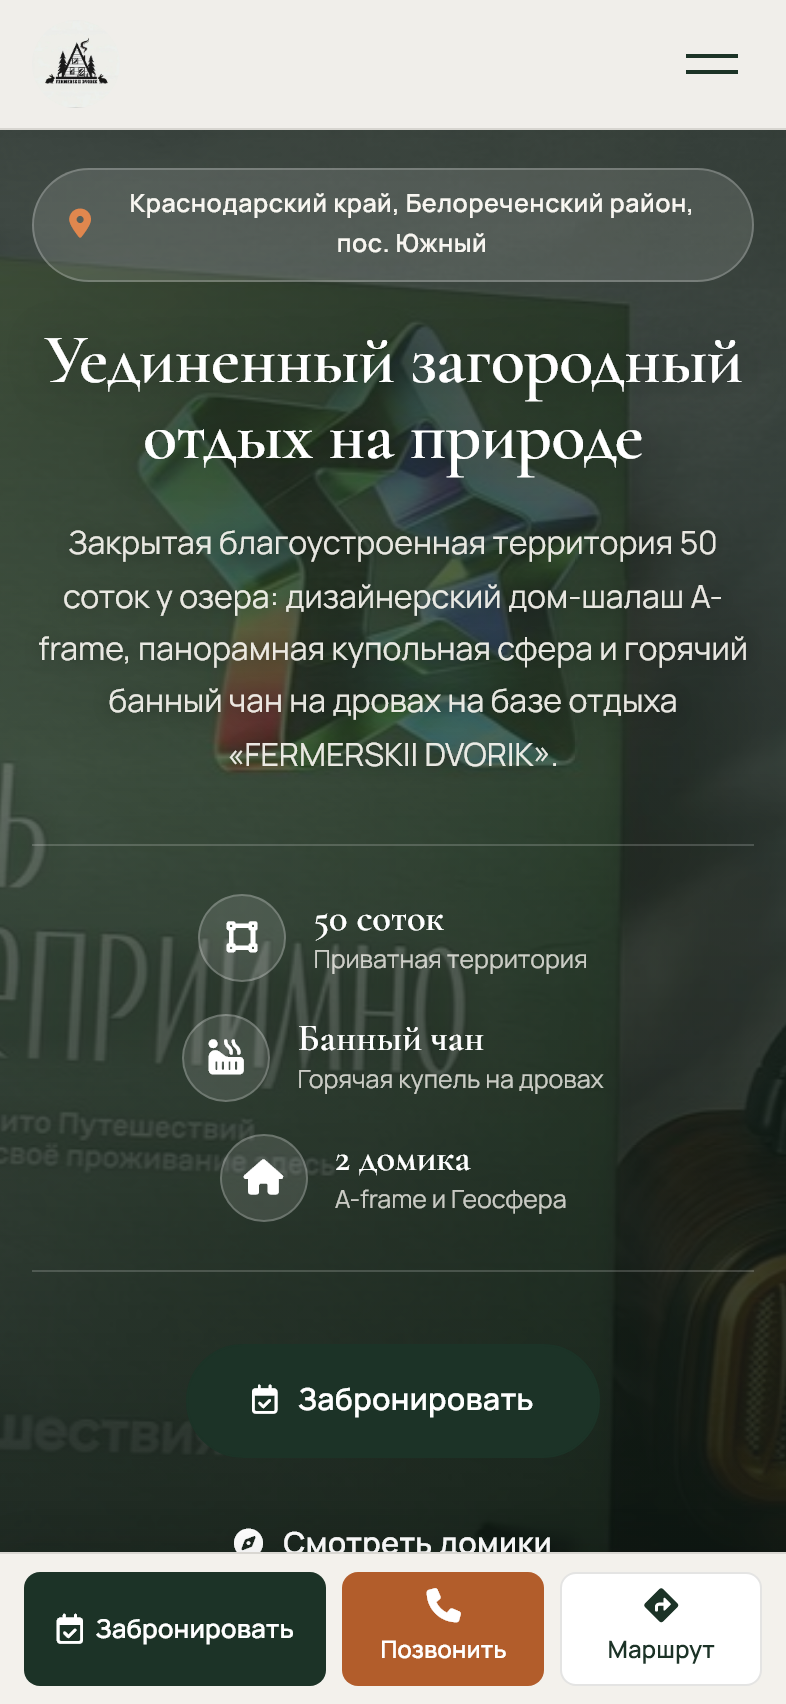
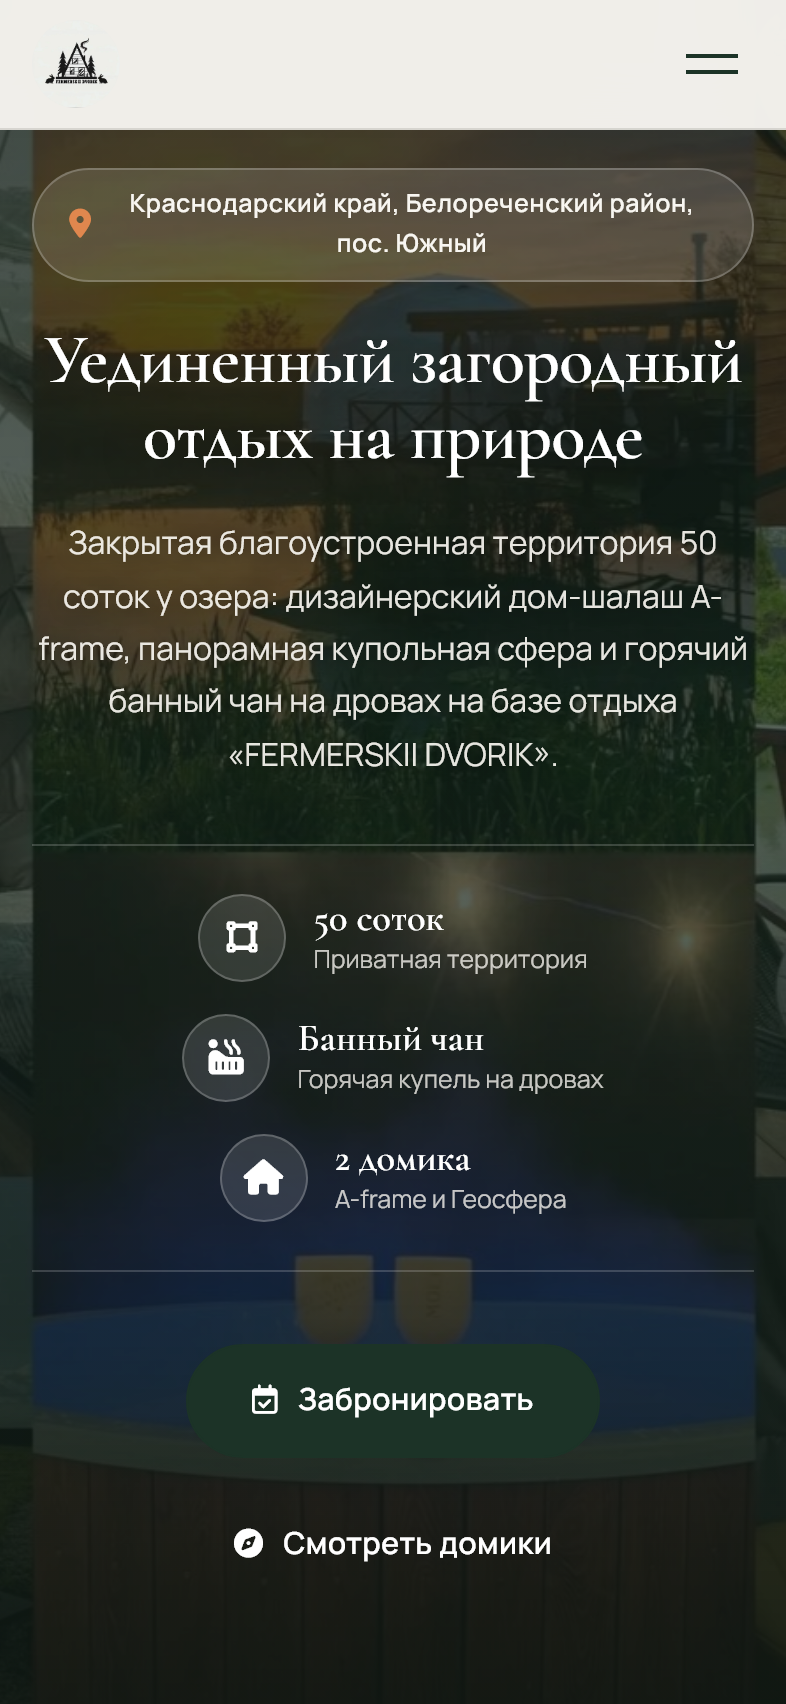
Remove mobile bottom bar and update mobile screenshots

diff --git a/css/layout.css b/css/layout.css
@@ -209,81 +209,6 @@
   line-height: 1.1;
 }
 
-.mobilnaya-polosa {
-  display: none;
-  position: fixed;
-  bottom: 0;
-  left: 0;
-  width: 100%;
-  background-color: rgba(248, 246, 241, 0.98);
-  backdrop-filter: blur(16px);
-  -webkit-backdrop-filter: blur(16px);
-  border-top: 1px solid var(--granitsa-tonkaya);
-  padding: 0.55rem 0.75rem calc(0.55rem + env(safe-area-inset-bottom));
-  z-index: 99;
-  box-shadow: 0 -4px 20px rgba(0, 0, 0, 0.08);
-}
-
-.mobilnaya-polosa__setka {
-  display: grid;
-  grid-template-columns: 1.5fr 1fr 1fr;
-  gap: 0.5rem;
-  max-width: 500px;
-  margin: 0 auto;
-}
-
-.mobilnaya-polosa__knopka {
-  display: flex;
-  flex-direction: column;
-  align-items: center;
-  justify-content: center;
-  gap: 3px;
-  padding: 0.5rem 0.3rem;
-  border-radius: var(--radius-maly);
-  font-size: 0.75rem;
-  font-weight: 600;
-  border: 1px solid transparent;
-  transition: var(--perekhod);
-  text-align: center;
-}
-
-.mobilnaya-polosa__knopka i {
-  font-size: 1.05rem;
-}
-
-.mobilnaya-polosa__knopka--glavnaya {
-  background-color: var(--tsvet-khvoya);
-  color: #FFFFFF;
-  flex-direction: row;
-  gap: 6px;
-  font-size: 0.8125rem;
-}
-
-.mobilnaya-polosa__knopka--glavnaya i {
-  font-size: 0.95rem;
-}
-
-.mobilnaya-polosa__knopka--zvonok {
-  background-color: var(--tsvet-derevo);
-  color: #FFFFFF;
-}
-
-.mobilnaya-polosa__knopka--zvonok:hover {
-  background-color: #9C4E20;
-}
-
-.mobilnaya-polosa__knopka--marshrut {
-  background-color: var(--fon-kartochka);
-  border-color: var(--granitsa-tonkaya);
-  color: var(--tsvet-khvoya);
-}
-
-@media (max-width: 768px) {
-  .mobilnaya-polosa {
-    display: block;
-  }
-}
-
 /* Кнопка возврата наверх */
 .knopka-vverh {
   position: fixed;
@@ -322,10 +247,10 @@
 
 @media (max-width: 768px) {
   .knopka-vverh {
-    bottom: calc(72px + env(safe-area-inset-bottom) + 0.75rem);
+    bottom: calc(1.25rem + env(safe-area-inset-bottom));
     right: 1rem;
-    width: 42px;
-    height: 42px;
+    width: 44px;
+    height: 44px;
     font-size: 1rem;
   }
 }

diff --git a/index.html b/index.html
@@ -1318,25 +1318,6 @@
     </div>
   </footer>
 
-  <div class="mobilnaya-polosa" aria-label="Быстрые кнопки на телефоне">
-    <div class="mobilnaya-polosa__setka">
-      <a href="#bronirovanie" class="mobilnaya-polosa__knopka mobilnaya-polosa__knopka--glavnaya">
-        <i class="fa-regular fa-calendar-check"></i>
-        <span>Забронировать</span>
-      </a>
-
-      <a href="tel:+79892820506" class="mobilnaya-polosa__knopka mobilnaya-polosa__knopka--zvonok">
-        <i class="fa-solid fa-phone"></i>
-        <span>Позвонить</span>
-      </a>
-
-      <a href="https://yandex.ru/maps/-/CXGZMDKt" target="_blank" rel="noopener noreferrer"
-        class="mobilnaya-polosa__knopka mobilnaya-polosa__knopka--marshrut">
-        <i class="fa-solid fa-diamond-turn-right"></i>
-        <span>Маршрут</span>
-      </a>
-    </div>
-  </div>
 
   <div class="polny-ekran-foto" id="polny-ekran" aria-hidden="true" role="dialog">
     <div class="polny-ekran-foto__podlozhka" id="polny-ekran-podlozhka"></div>
